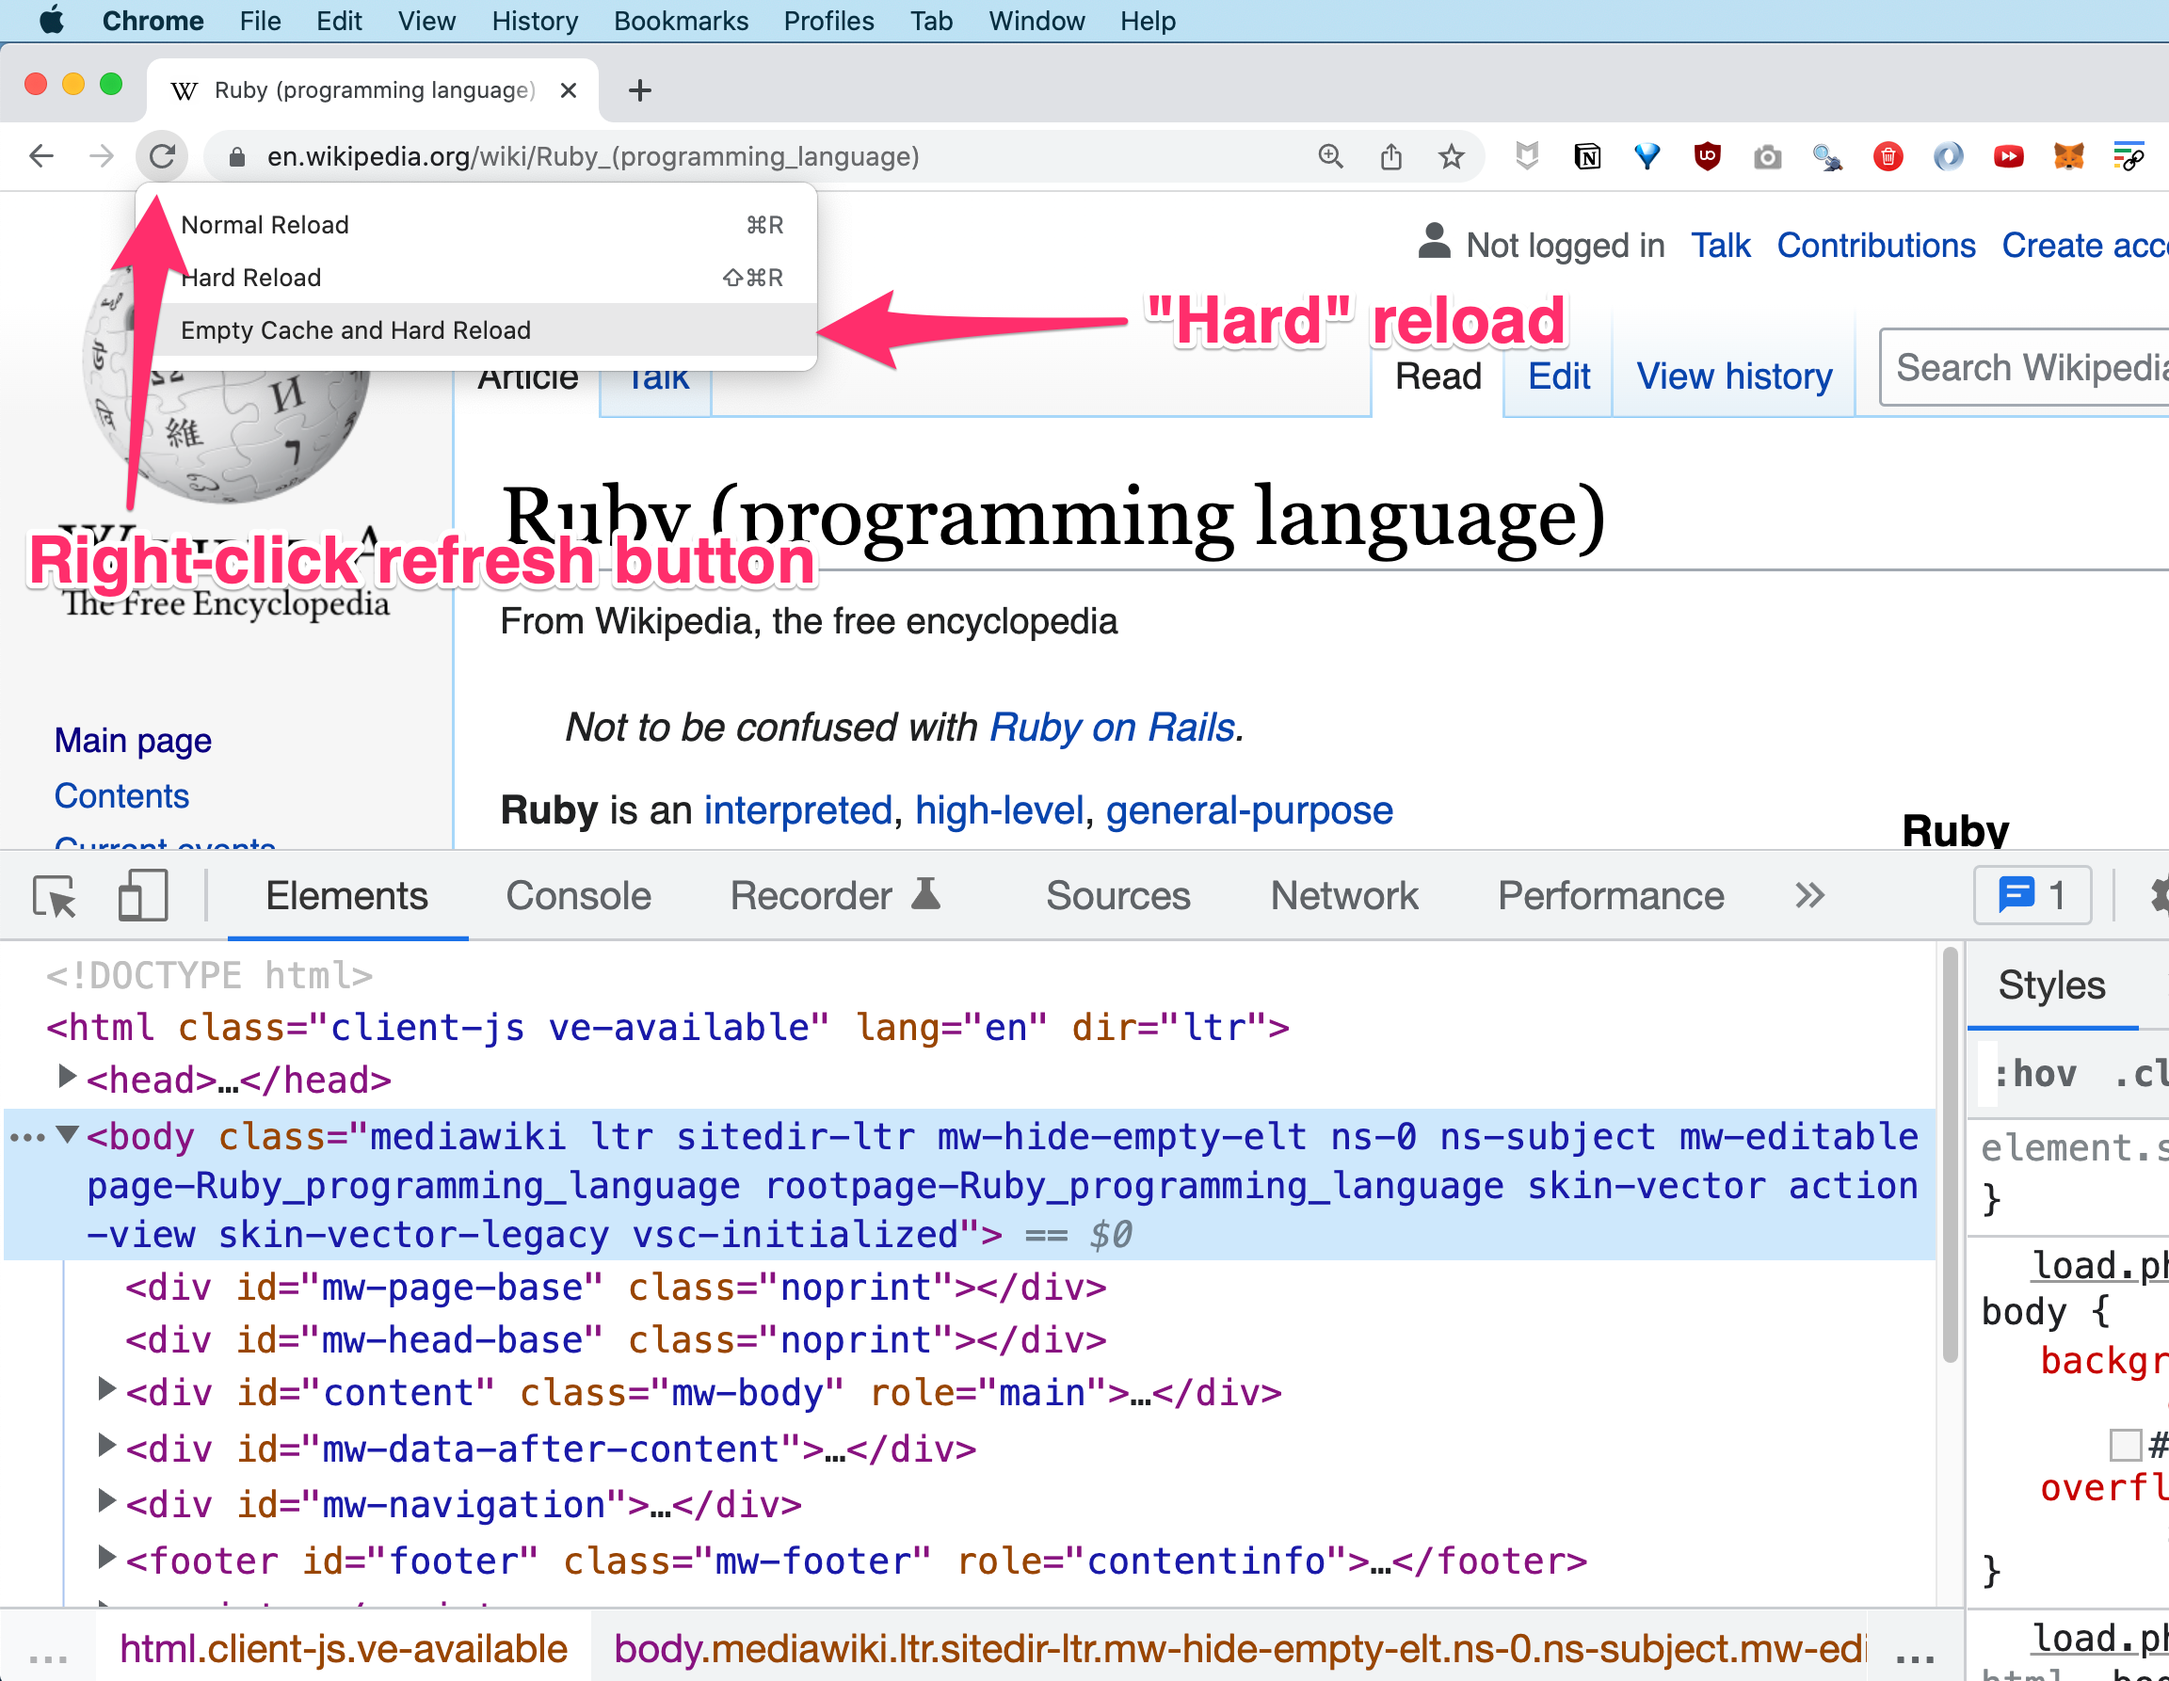
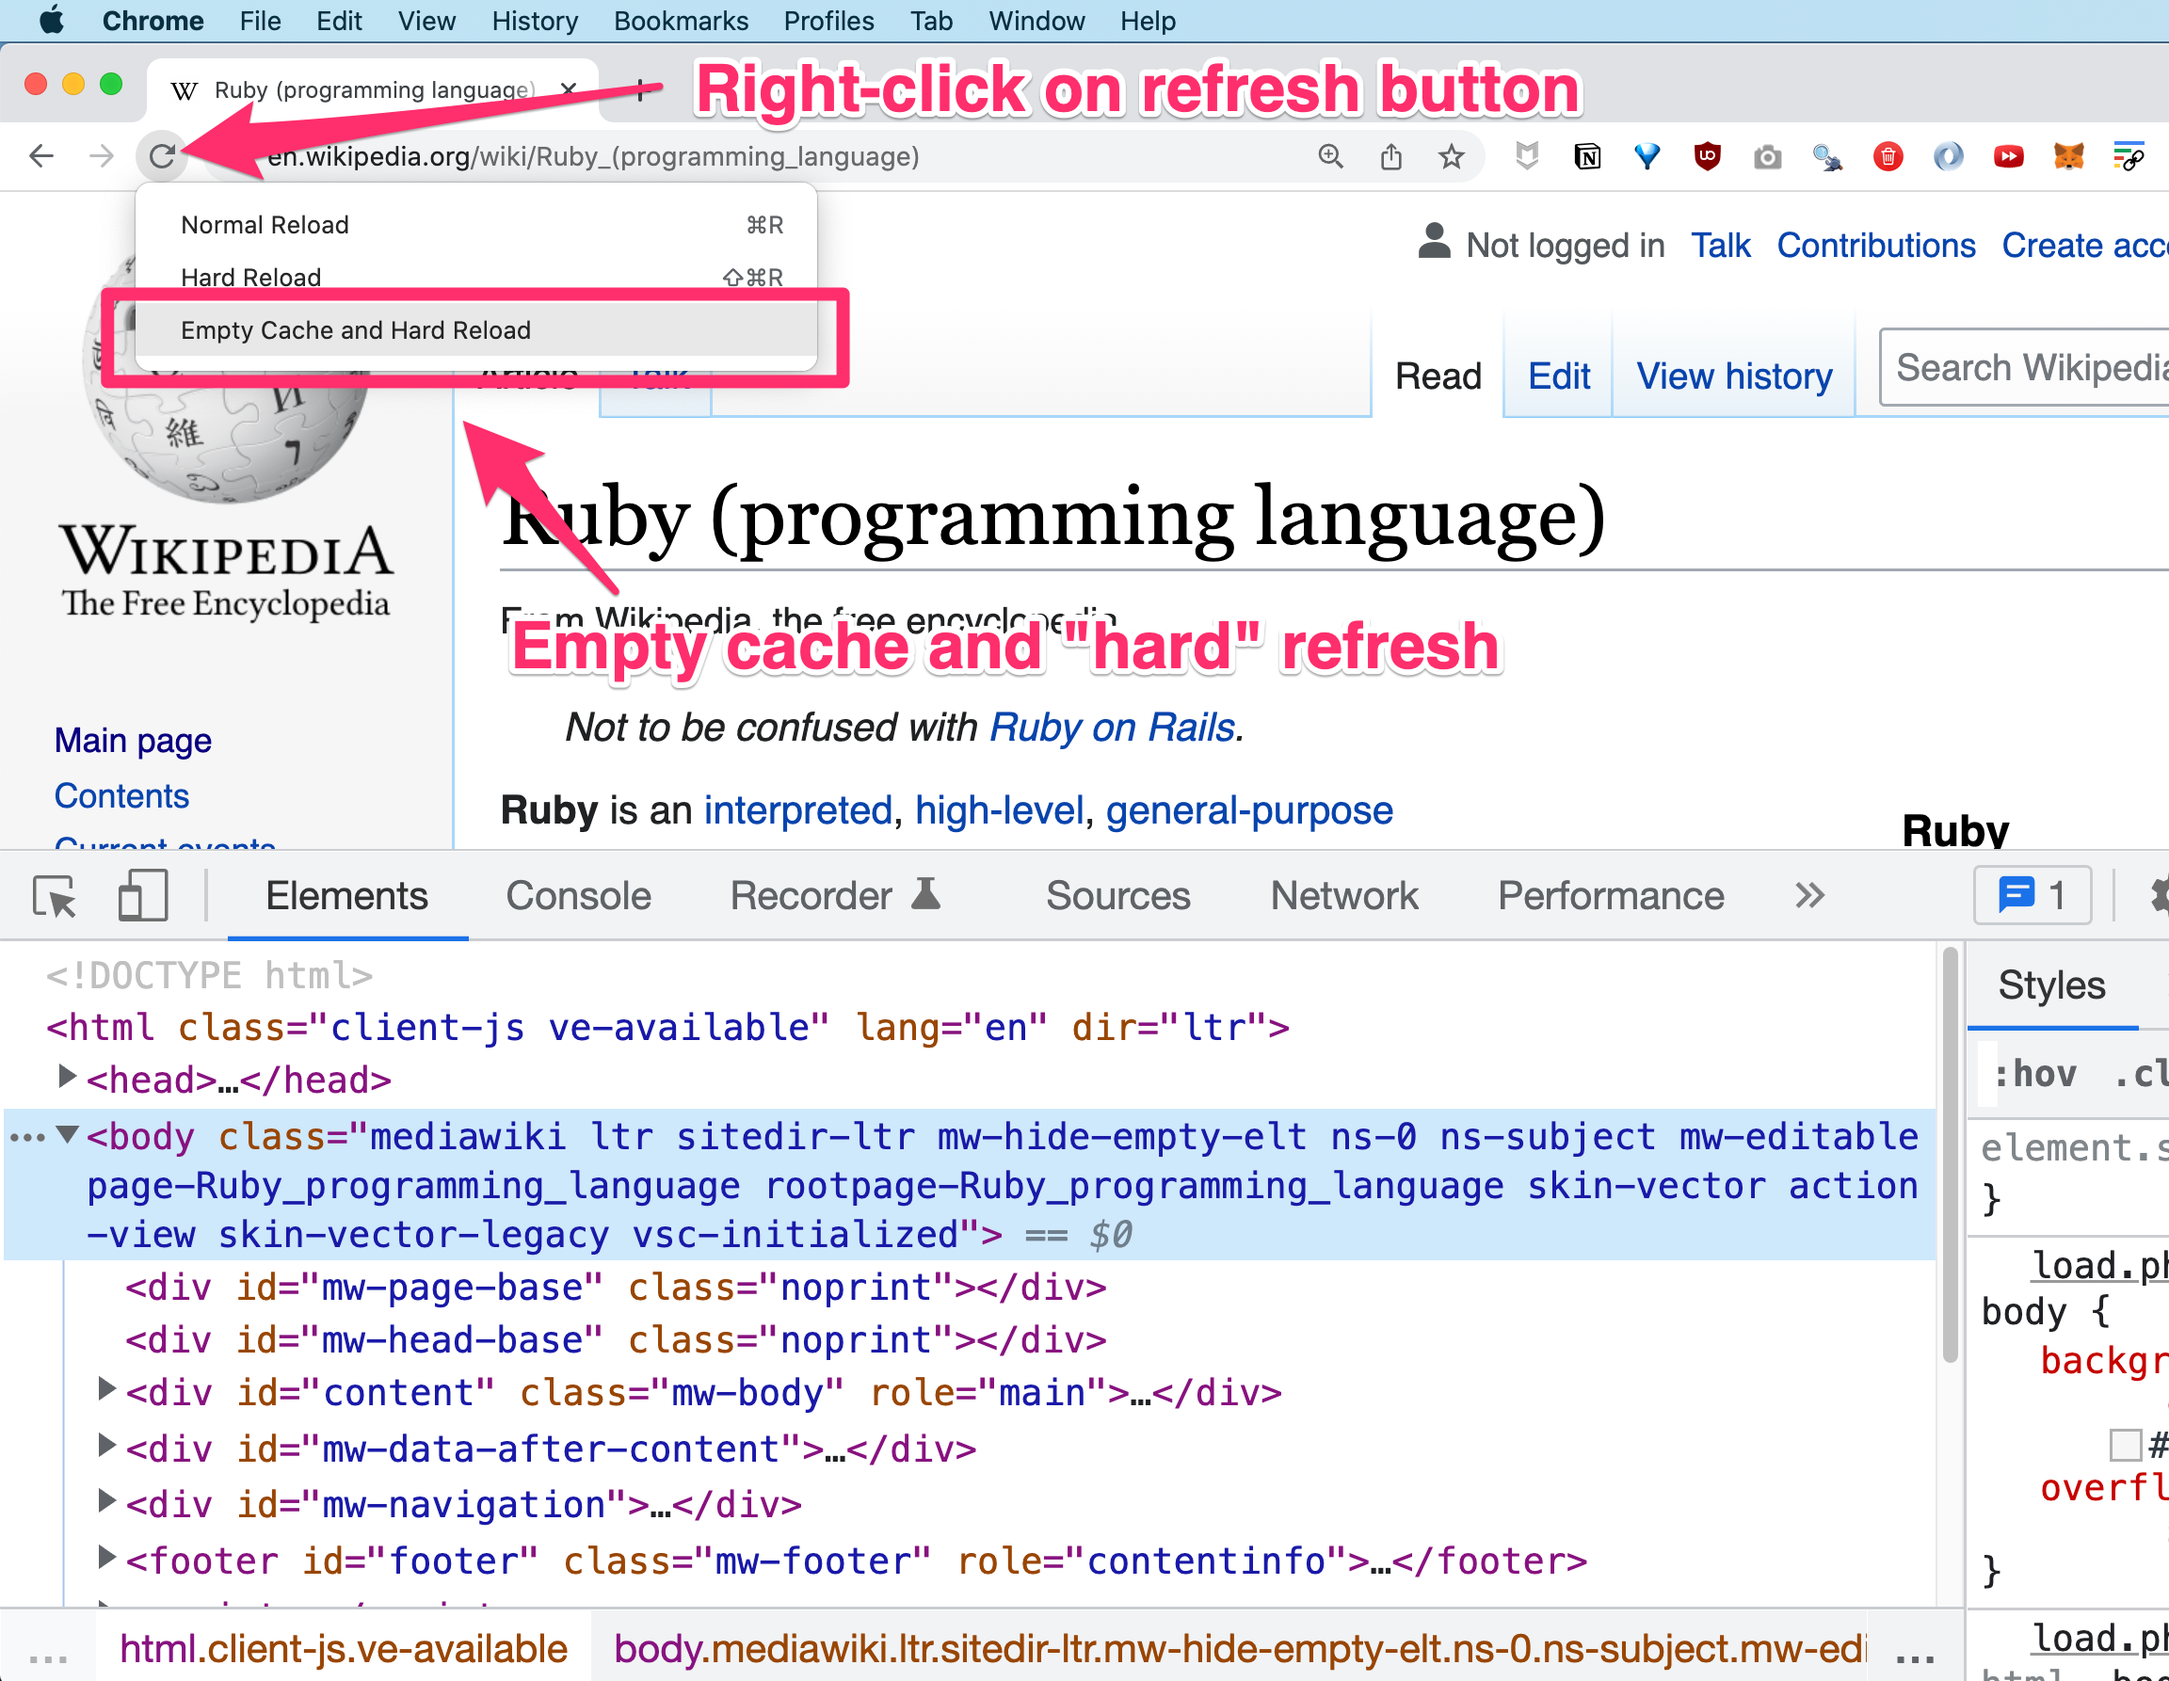
Update hard refresh

Changed region(s): [[0.0, 0.1232, 0.7188, 0.4003], [0.25, 0.0308, 0.75, 0.0924], [0.0938, 0.0616, 0.25, 0.1232]]

diff --git a/hard-reload.md b/hard-reload.md
@@ -6,7 +6,11 @@ The cause is usually Chrome's aggressive "caching", i.e. re-using static assets 
 
 To do so:
 
- 1. Open the Dev Tools (from the `View > Developer` menu, or right-click on any element and `Inspect`, or press <kbd>F12</kbd>).
+ 1. Open the Dev Tools...
+    - from the `View > Developer` menu
+    - or right-click on any element and `Inspect`
+    - or press <kbd>F12</kbd>
+    - or <kbd>Ctrl</kbd>`+`<kbd>Shift</kbd>`+`<kbd>J</kbd> (on Windows) or <kbd>Ctrl</kbd>`+`<kbd>Option</kbd>`+`<kbd>J</kbd> (on Mac)
  2. **Right-click** on the refresh button.
  3. Select "Empty cache and hard reload".
 
